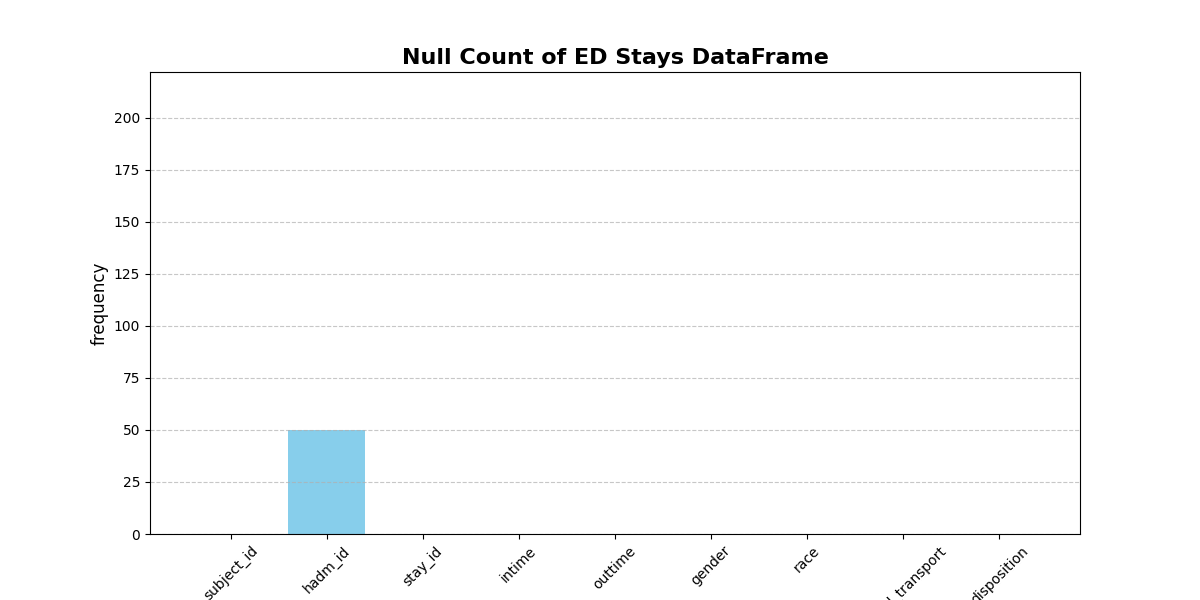
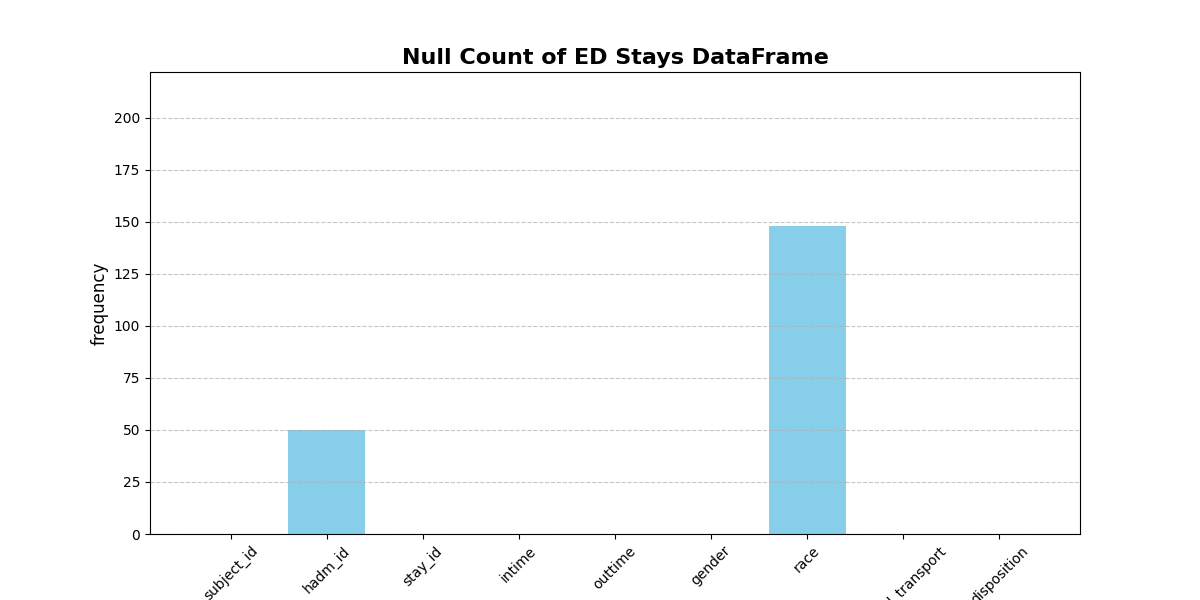
v1

Changed region(s): [[0.6167, 0.36, 0.7092, 0.9]]

diff --git a/src/cleaning.py b/src/cleaning.py
@@ -1,15 +1,10 @@
 import pandas as pd
 import os
-#from utils import plotBarNulls
+from utils import plotBarNulls
 
 BASE_DIR = os.path.dirname(os.path.dirname(os.path.abspath(__file__)))
 
 df_edstays = pd.read_csv(os.path.join(BASE_DIR,'data','raw','edstays.csv'))
-df_triage = pd.read_csv(os.path.join(BASE_DIR,'data','raw','triage.csv'))
-df_vitalsign = pd.read_csv(os.path.join(BASE_DIR,'data','raw','vitalsign.csv'))
-df_diagnosis = pd.read_csv(os.path.join(BASE_DIR,'data','raw','diagnosis.csv'))
-df_medrecon = pd.read_csv(os.path.join(BASE_DIR,'data','raw','medrecon.csv'))
-df_pyxis = pd.read_csv(os.path.join(BASE_DIR,'data','raw','pyxis.csv'))
 
 '''
     ploting the frequancy of null values in each dataframe to visualize the extent of missing data
@@ -22,7 +17,9 @@ plotBarNulls(df_medrecon, 'Null Count of Medication Recon DataFrame')
 plotBarNulls(df_pyxis, 'Null Count of Pyxis DataFrame')
 
 '''
+'''
 print(df_edstays.info())
+print("=========================================================================")
 #mapping the arrival transport modes to numerical codes for easier analysis and modeling
 print(df_edstays["arrival_transport"].unique())
 df_transport=[
@@ -34,11 +31,13 @@ df_transport=[
 df_transport=pd.DataFrame(df_transport, columns=['Code', 'Transport'])
 df_transport.to_csv(os.path.join(BASE_DIR,"data","processed","transport_mapping.csv"), index=False)
 df_edstays['arrival_transport'] = df_edstays['arrival_transport'].map({'AMBULANCE': 1, 'WALK IN': 2, 'OTHER': 3, 'UNKNOWN': 4})
+print("=========================================================================")
 
 time_regEx=r'^\d{4}-\d{2}-\d{2} \d{2}:\d{2}:\d{2}$'
 print(str(df_edstays[df_edstays["intime"].astype(str).str.match(time_regEx)].shape[0])+" / "+str(df_edstays.shape[0])+" in intime match the datetime format")
 print(str(df_edstays[df_edstays["outtime"].astype(str).str.match(time_regEx)].shape[0])+" / "+str(df_edstays.shape[0])+" in outime match the datetime format")
 print(str(df_edstays[df_edstays["intime"]<=df_edstays["outtime"]].shape[0])+" / "+str(df_edstays.shape[0])+" in datetime logicly correct (intime <= outtime)")
+print("=========================================================================")
 
 print(df_edstays["gender"].unique())
 df_gender=[
@@ -48,18 +47,72 @@ df_gender=[
 df_gender=pd.DataFrame(df_gender,columns=["Code","Gender"])
 df_gender.to_csv(os.path.join(BASE_DIR,"data","processed","gender_mapping.csv"), index=False)
 df_edstays['gender']=df_edstays['gender'].map({'M':1, 'F':2})
+print("=========================================================================")
 
 print(df_edstays['race'].unique())
 df_race=[
-    (1, 'UNKNOWN'),
-    (2, 'EUROPEAN'),
-    (3, 'HISPANIC/LAT')
+    (1, 'EUROPEAN'),
+    (2, 'MULTIPLE'),
+    (3,'NORTH AMERICAN'),
+    (4,'SOUTH AMERICAN'),
+    (5,'AFRICAN AMERICAN')
 ]
-df_edstays['race']=df_edstays['race'].map({'PATIENT DECLINED TO ANSWER':1,'UNKNOWN':1,})
+df_race=pd.DataFrame(df_race,columns=['Code','Race'])
+df_race.to_csv(os.path.join(BASE_DIR,"data","processed","race_mapping.csv"), index=False)
+df_edstays['race']=df_edstays['race'].map({'PATIENT DECLINED TO ANSWER':None,
+                                           'UNKNOWN':None,'WHITE - OTHER EUROPEAN':1,
+                                           'OTHER':None,'MULTIPLE RACE/ETHNICITY':2,
+                                           'UNABLE TO OBTAIN':None,'HISPANIC/LATINO - CUBAN':3,
+                                           'HISPANIC/LATINO - SALVADORAN':3,
+                                           'WHITE - BRAZILIAN':4,'PORTUGUESE':1,
+                                           'WHITE':None,'BLACK/AFRICAN AMERICAN':5
+                                    })
 
+#plotBarNulls(df_edstays, 'Null Count of ED Stays DataFrame')
+print("=========================================================================")
+
+print(df_edstays['disposition'].unique())
+df_disposition=[
+    (1, 'HOME'),
+    (2, 'ADMITTED'),
+    (3,'TRANSFER'),
+    (4,'LEFT WITHOUT BEING SEEN'),
+    (5,'LEFT AGAINST MEDICAL ADVICE'),
+    (6,'ELOPED'),
+    (7,'OTHER'),
+
+]
+df_race=pd.DataFrame(df_race,columns=['Code','Disposition'])
+df_race.to_csv(os.path.join(BASE_DIR,"data","processed","disposition_mapping.csv"), index=False)
+df_edstays['disposition']=df_edstays['disposition'].map({'HOME':1,'ADMITTED':2,'TRANSFER':3,'LEFT WITHOUT BEING SEEN':4,
+                                           'LEFT AGAINST MEDICAL ADVICE':5,'ELOPED':6,'OTHER':7})
+print("=========================================================================")
 
 print(df_edstays.info())
+print("=========================================================================")
+
 print(df_edstays.head())
+print("=========================================================================")
+
+'''
+df_triage = pd.read_csv(os.path.join(BASE_DIR,'data','raw','triage.csv'))
+df_vitalsign = pd.read_csv(os.path.join(BASE_DIR,'data','raw','vitalsign.csv'))
+df_diagnosis = pd.read_csv(os.path.join(BASE_DIR,'data','raw','diagnosis.csv'))
+df_medrecon = pd.read_csv(os.path.join(BASE_DIR,'data','raw','medrecon.csv'))
+df_pyxis = pd.read_csv(os.path.join(BASE_DIR,'data','raw','pyxis.csv'))
+
+df_triage['temperature']=(df_triage['temperature'] - 32) * 5/9
+df_triage['temperature']=df_triage['temperature'].apply(lambda x: x if 10 <= x <= 47 else None)
+print(df_triage['temperature'].describe())
+
+print("=========================================================================")
+
+print(df_triage.info())
+print("=========================================================================")
+
+print(df_triage.head())
+print("=========================================================================")
+
 
 
 
